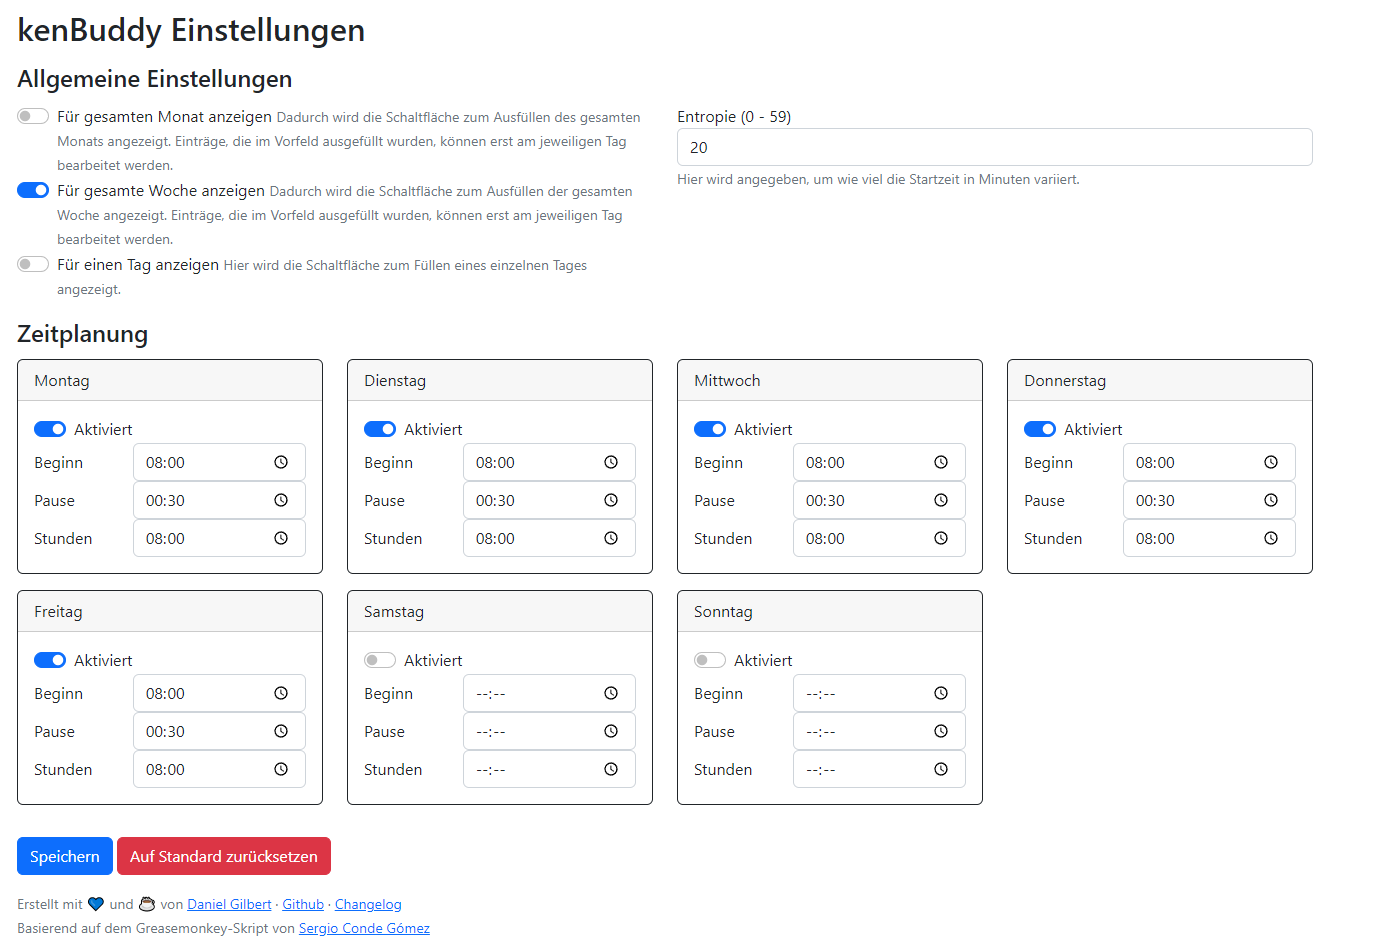
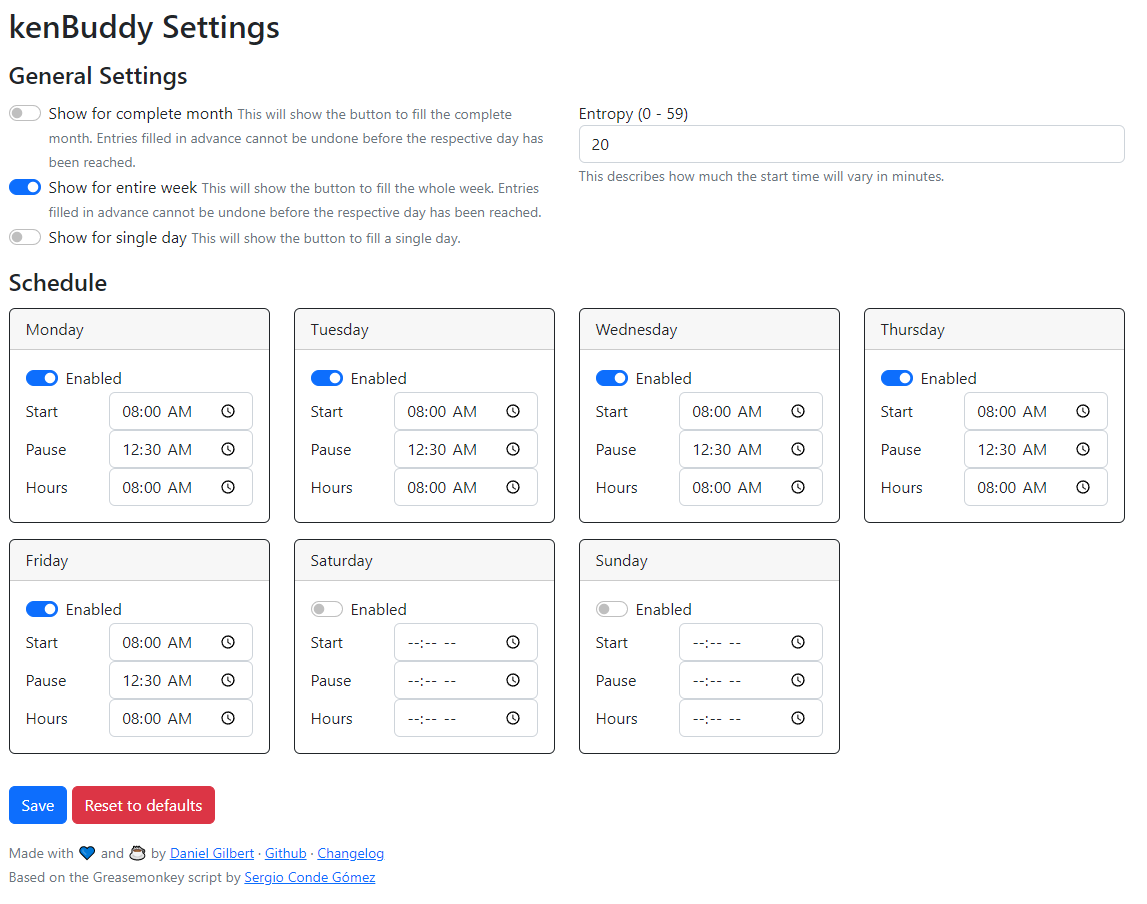
Updates readme and screenshot

diff --git a/README.md b/README.md
@@ -1,4 +1,6 @@
 # kenBuddy - Browser extension
+![](/asset/screenshot.png)
+
 This extension allows to fill the attendance sheet provided at kenjo.io in a more easier manner. If the real attendance is not important, and you are just filling this sheet for legal purpose - this extension is for you. It comes with an entropy and a small options page.
 
 For this extension to work, the "Attendance" widget needs to be visible on the home screen.
@@ -8,18 +10,25 @@ For this extension to work, the "Attendance" widget needs to be visible on the h
 - [Mozilla Firefox][firefox-store]
 
 ## Settings
-In the settings, it is possible to change the following:
-- Entropy: This will alternate the start time randomly with a maximum of the given value
-- Schedule: You can set a custom start time, a custom duration (depending on how many hours you work per day) and the duration for your break.
-- Fill Month: You can also activate a hidden button, which will allow you to prefill the whole month. I'm not endorsing that feature, but, you know...
+![](asset/screenshot-settings.png)
+
+### General Settings
+- **Show for complete month** - this will show you the button for the complete month. Keep in mind that you won't be able to change the prefilled values until the respective day has been reached.
+- **Show for entire week** - same as above, but just for the current week.
+- **Show for single day** - shows the button to fill the attendance for just this day.
+
+- **Entropy** - you can alternate the starting time. The entropy marks the maximum amount of minutes that will be added to the start time. If you don't want to have anything of that happening, just set it to 0.
+
+### Schedule
+- **Start** - set the time you usually start working.
+- **Pause** - your usual pause duration.
+- **Hours** - the amount of hours you work on this day.
 
 ## FAQ
 - **I cannot see the button?**
     - Make sure to add the attendance widget to your Home Screen
 - **I still cannot see the button!**
     - Press _"Refresh"_ or <kbd>F5</kbd> - mostly, this appears after you've navigated inside the kenjo web app, and return back to the Home screen.
-- **What does _Attendance: Fill Month_ do?**
-    - It fills the attendance sheet for the entire month. As there is currently no way to remove entries that were made in advance, I highly discourage you to do that. Also, HR might not like it.
 
 [google-store]: https://chrome.google.com/webstore/detail/kenone/fdalhlmgbllklibldlbglgnomghicmhm
 [firefox-store]: https://addons.mozilla.org/de/firefox/addon/kenbuddy/
